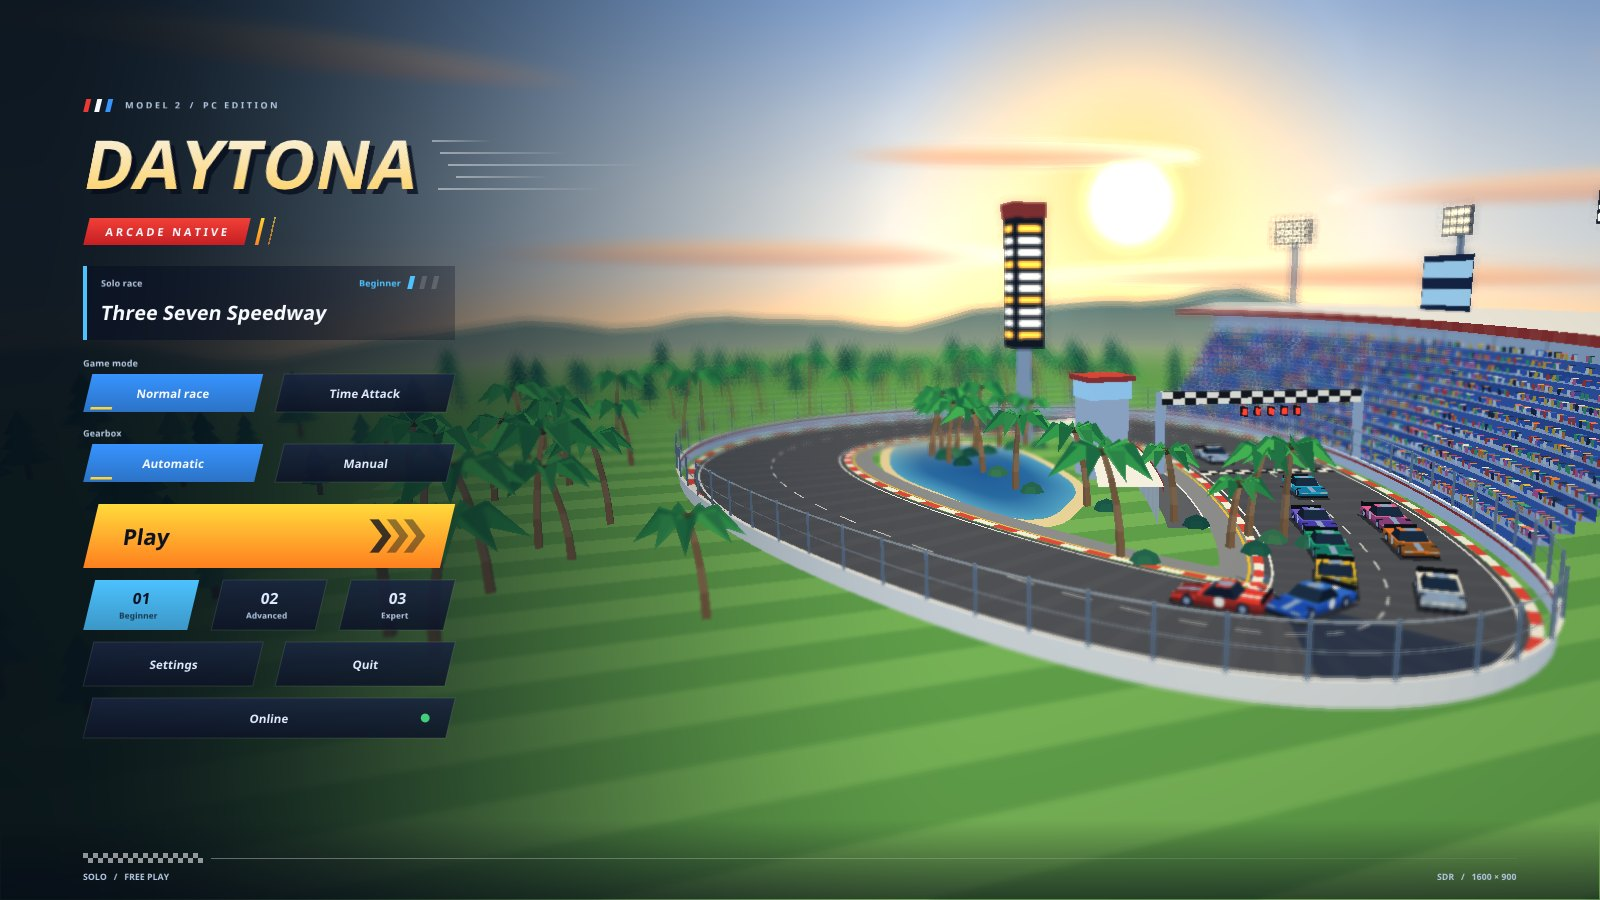
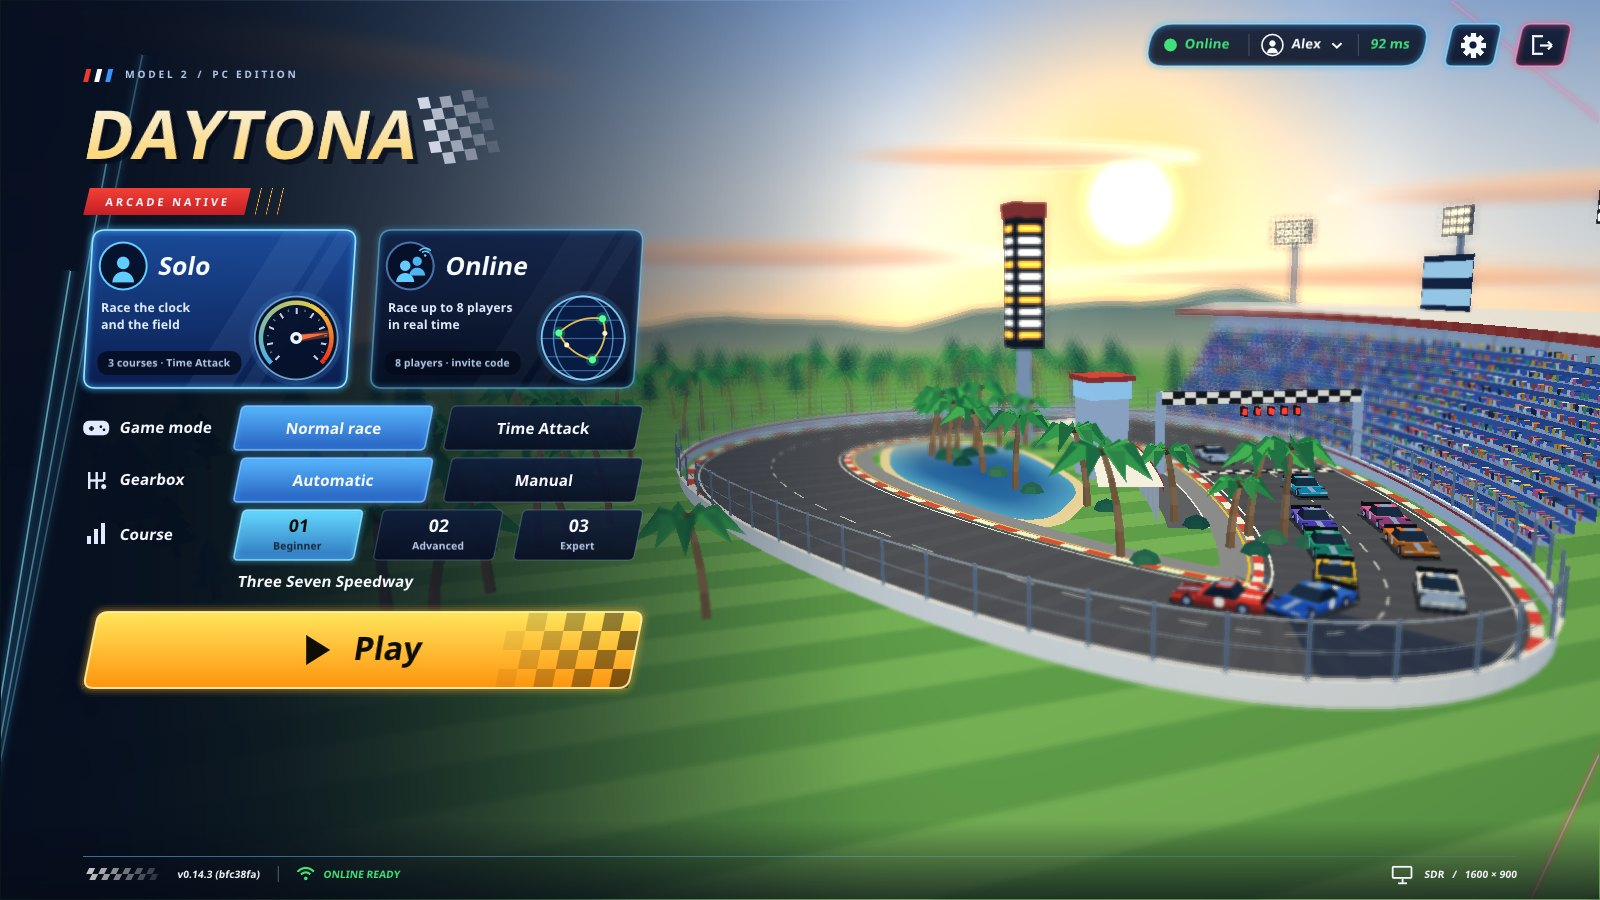
README: screenshots of the new home screen and its screens
The home screen picture replaced (Solo card), and four more in a
Screenshots section: the Online card, a room, the room's settings,
Settings. All are the application's own interface and 3D speedway
(--capture-home at 1600x900); no game frame.

diff --git a/README.md b/README.md
@@ -3,7 +3,7 @@
 **Daytona USA (Sega Model 2, 1994) rebuilt as native code for the PC, with
 online play for up to 8 players.**
 
-![The home screen: a sunset speedway behind the menu](docs/images/home-screen.jpg)
+![The home screen: the Solo and Online cards over a sunset speedway](docs/images/home-screen.jpg)
 
 The arcade's programs are statically recompiled to portable C++: the i960
 game code, the TGP program it uploads and the sound board's 68000 code. The
@@ -120,6 +120,19 @@ Command line: `--rom FILE.zip`, `--fullscreen`, `--gpu vulkan|direct3d12|metal`,
 `--audio native|reference`, `--profile NAME` (separate settings and saves,
 e.g. a second player on the same computer), `--online`, `--settings`,
 `--arcade` (the cabinet launcher instead of the home menu), `--autostart`.
+
+## Screenshots
+
+The PC home and its screens (Revision A). Every picture is the application's
+own interface and its 3D speedway, captured with `--capture-home`; no game
+frame is shown.
+
+| | |
+| --- | --- |
+| ![The Online card: an invite code pasted on its own, Create a new room, Join the room](docs/images/home-online.jpg) | ![In a room: its eight places in the cars' colours, the owner crowned, Start the race](docs/images/home-room.jpg) |
+| **Online**: the invite code is pasted on its own; or create a room. | **In a room**: its places in the cars' colours, what it waits for. |
+| ![The room's settings: name, server, and the race settings as choices](docs/images/room-settings.jpg) | ![Settings: six tabs in one scrolling column](docs/images/settings.jpg) |
+| **Room settings**: name, server, and the race for every player. | **Settings**: display, enhancements, controls, sound. |
 
 ## Online play
 

diff --git a/CHANGELOG.md b/CHANGELOG.md
@@ -14,6 +14,8 @@ rule 14); each version has its section here.
   that answered; `M2_CAPTURE_ONLINE_CONNECTED=1` fills the room's settings
   with an example name and server (shown, not saved). For the README's
   pictures.
+- **README: new pictures** of the home screen (Solo, Online, in a room),
+  the room's settings and Settings, in `docs/images/`.
 
 ## 0.14.2 (2026-11-24)
 
